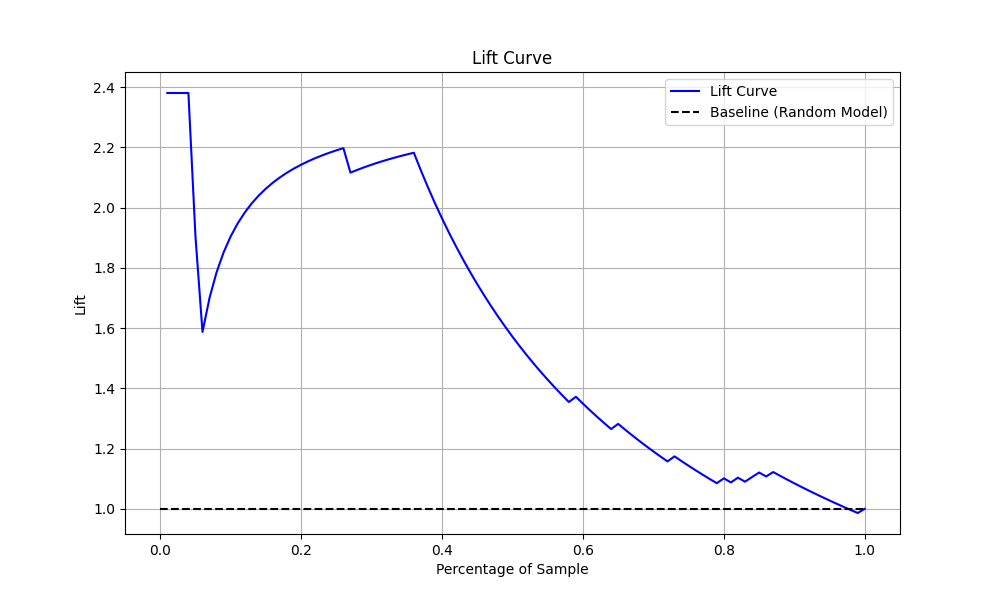
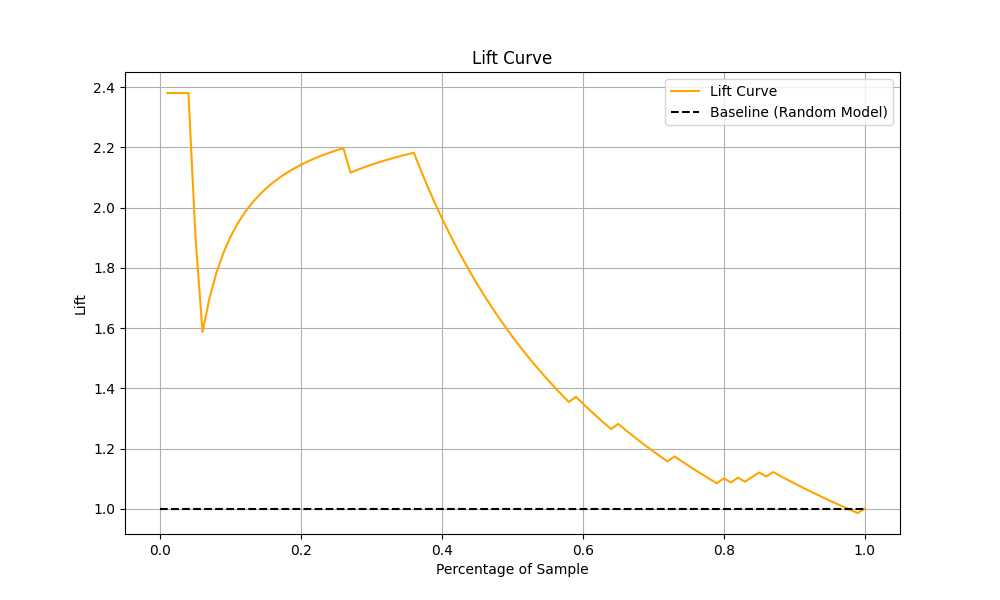
adjusted lift curve to orange  colour

diff --git a/output/benchmark_report.md b/output/benchmark_report.md
@@ -1,4 +1,5 @@
-| model                                   |   accuracy |   precision |   recall |       f1 |
-|:----------------------------------------|-----------:|------------:|---------:|---------:|
-| siebert/sentiment-roberta-large-english |       0.95 |    0.95122  | 0.928571 | 0.939759 |
-| aychang/roberta-base-imdb               |       0.99 |    0.976744 | 1        | 0.988235 |
+| model                                           |   accuracy |   precision |   recall |       f1 |
+|:------------------------------------------------|-----------:|------------:|---------:|---------:|
+| distilbert-base-uncased-finetuned-sst-2-english |       0.88 |    0.916667 | 0.785714 | 0.846154 |
+| siebert/sentiment-roberta-large-english         |       0.95 |    0.95122  | 0.928571 | 0.939759 |
+| aychang/roberta-base-imdb                       |       0.99 |    0.976744 | 1        | 0.988235 |
